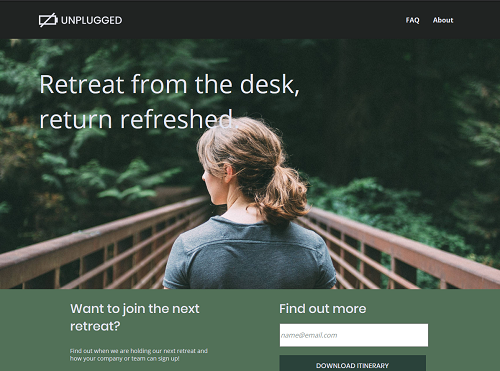
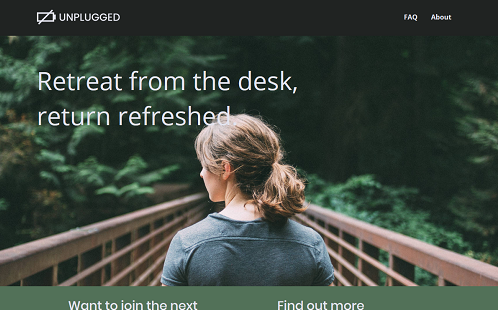
crop tech retreat image

diff --git a/index.html b/index.html
@@ -58,7 +58,7 @@
             <section class="full-width" id="portfolio-section">
                 <h2>My Portfolio</h2>
                 <div class="half-width">
-                    <img src="img/rogue-pickings-thumbnail.png" alt="Rogue Pickings project" class="portfolio-image" />
+                    <img src="img/tech-retreat-image.png" alt="Tech Retreat project" class="portfolio-image" />
                 </div>
                 <div class="half-width portfolio-blurb">
                     <h3>Rogue Pickings Website</h3>
